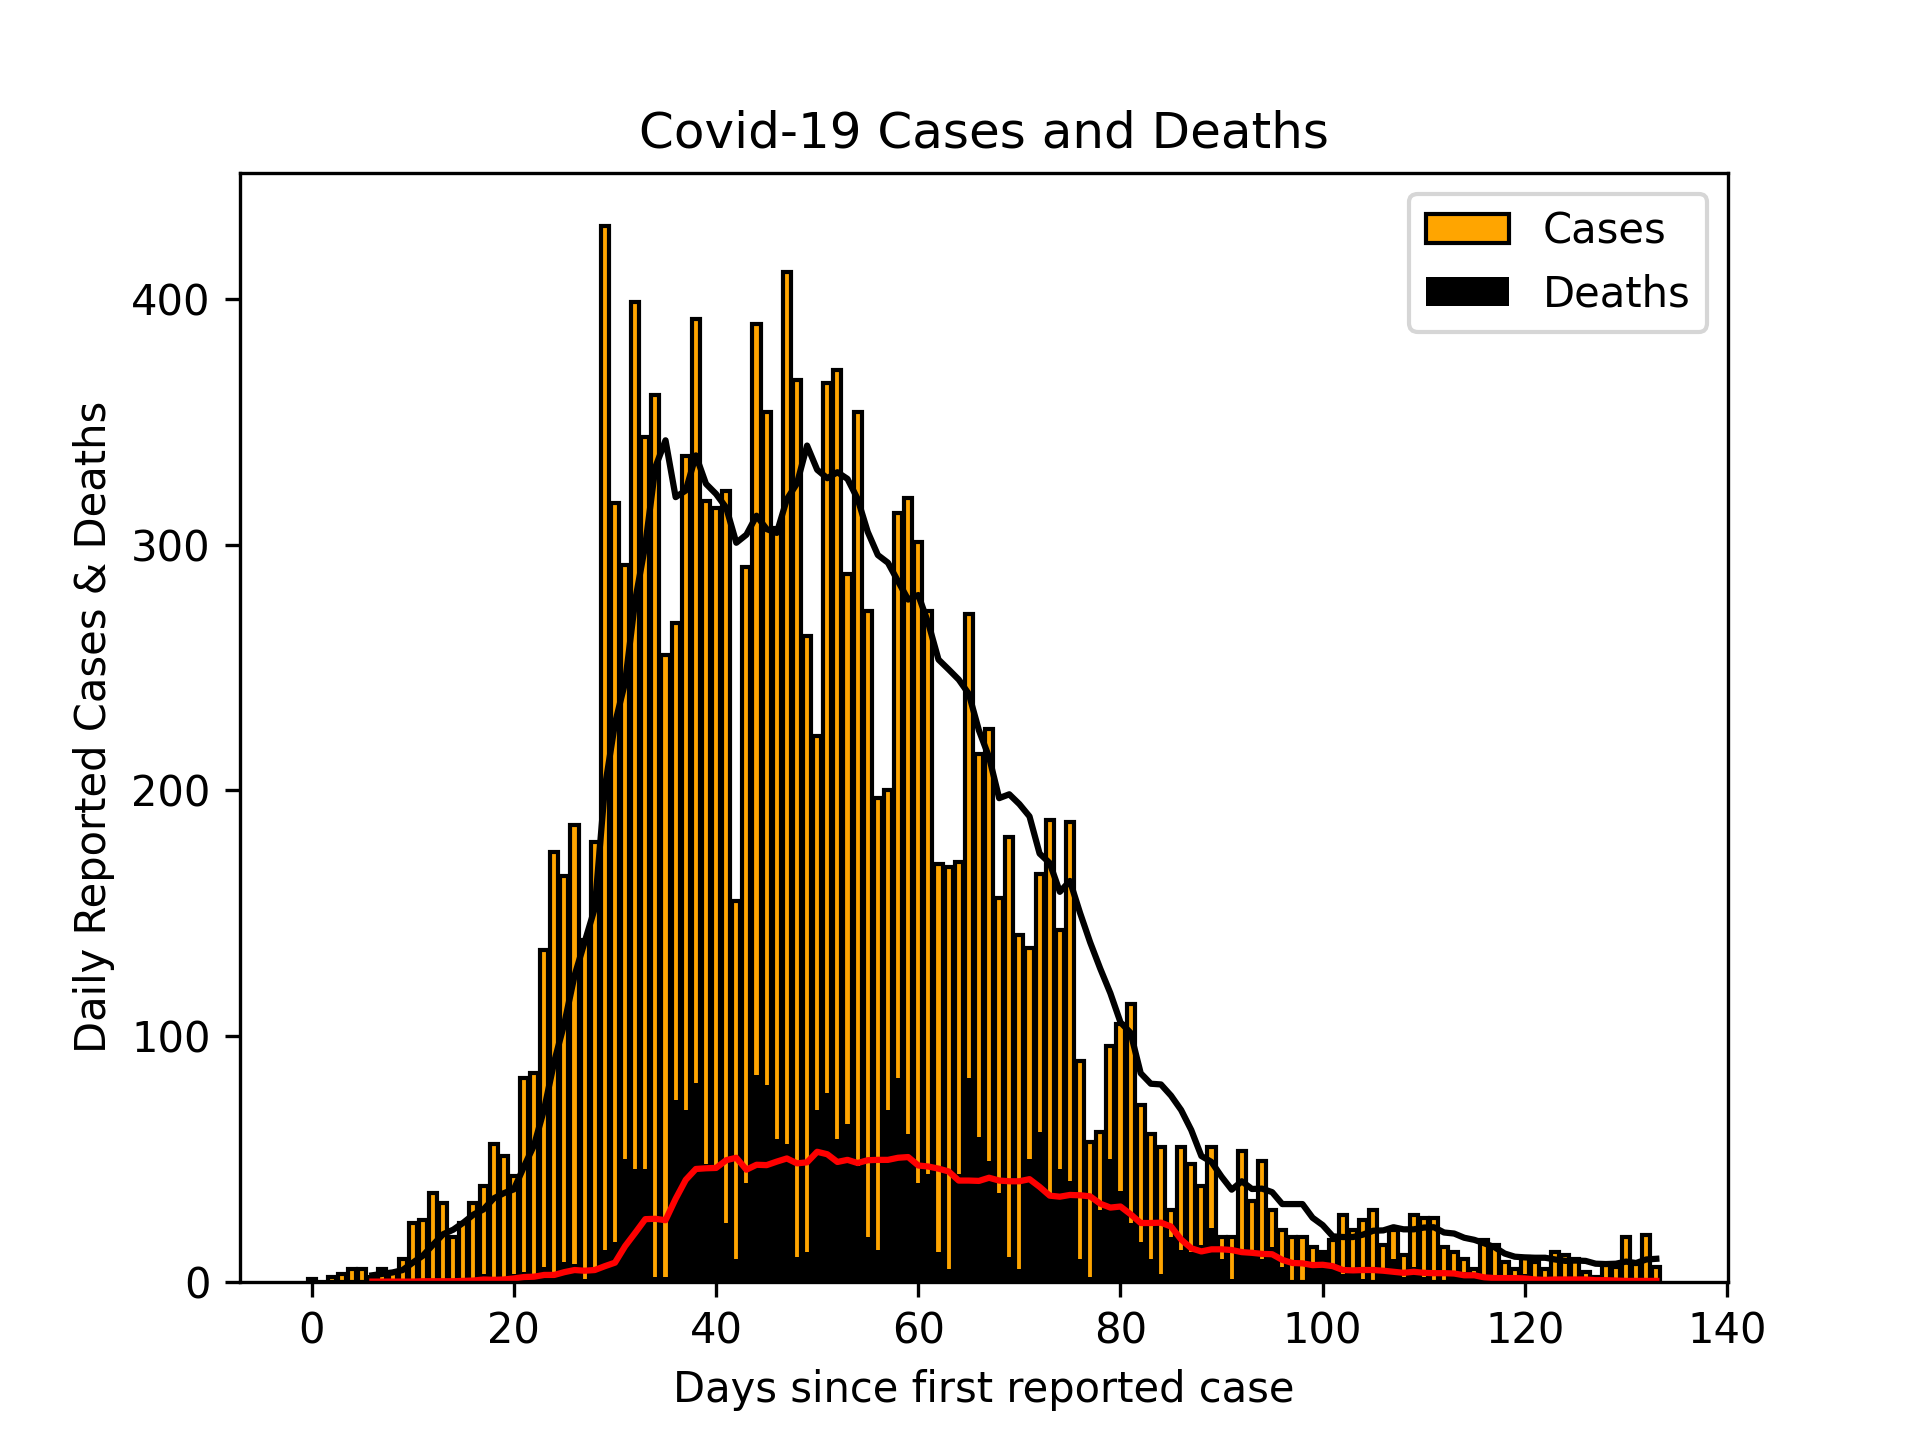
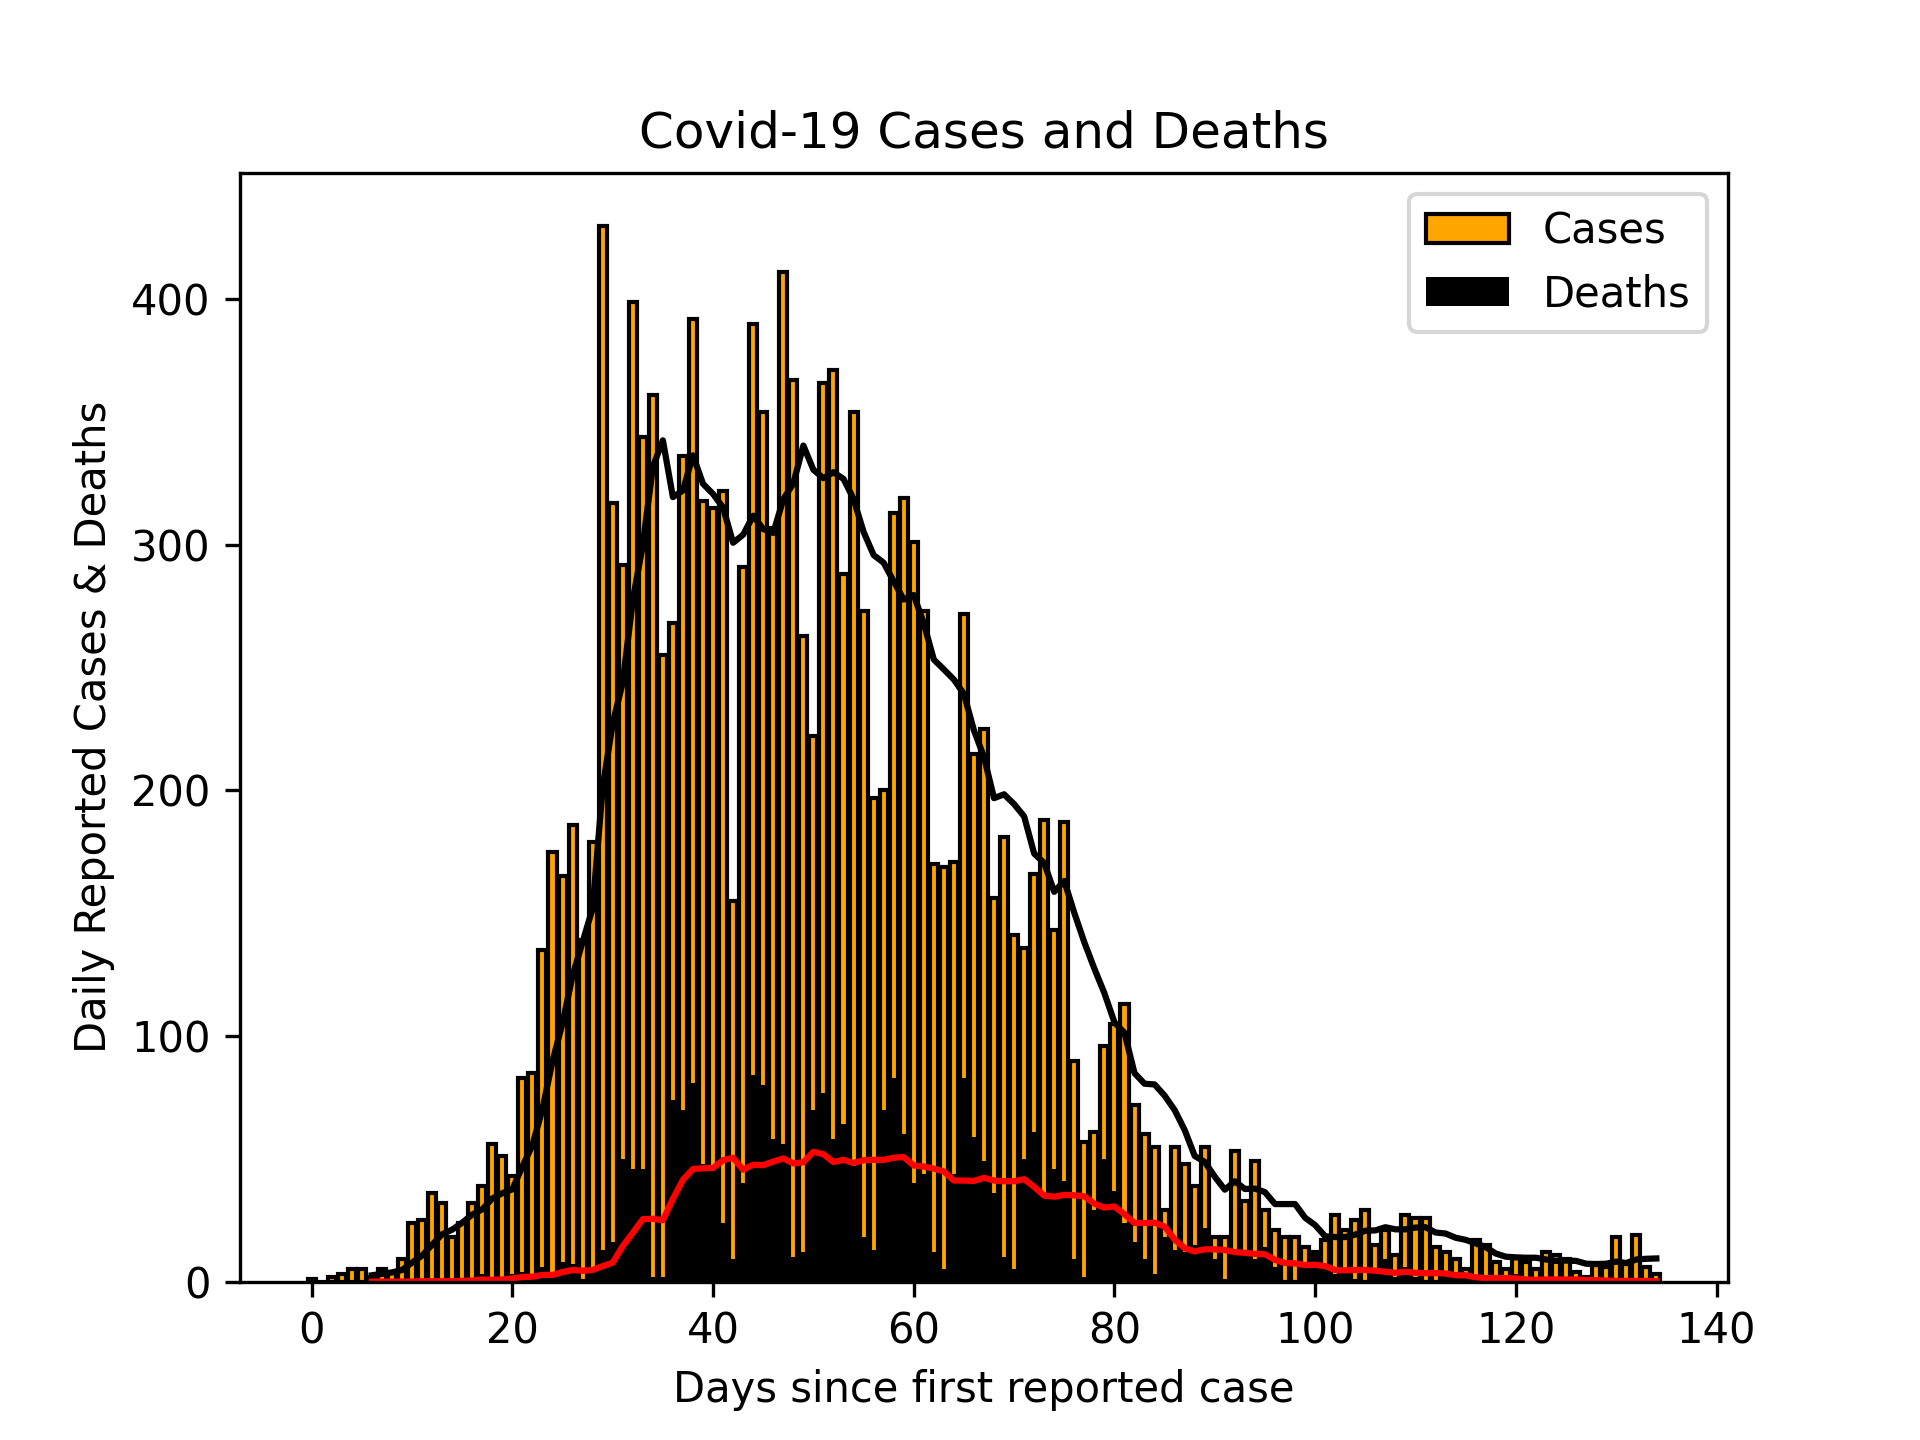
Updated Scottish cases 14/07/20

diff --git a/README.md b/README.md
@@ -1,3 +1,3 @@
-# Scottish Cases 13/07/20
+# Scottish Cases 14/07/20
 ![alt](scottish_cases.png)
 
